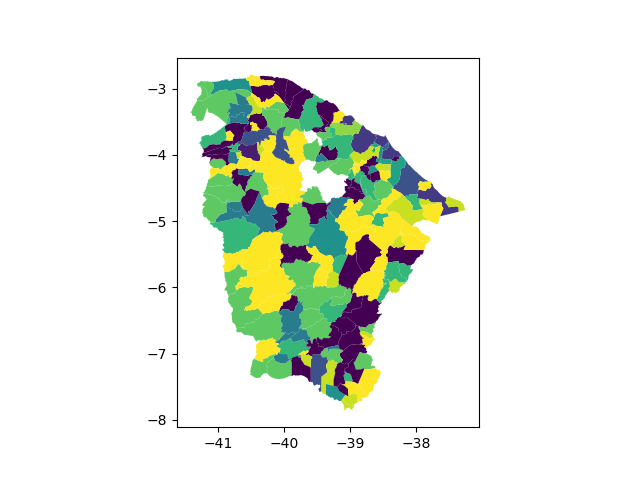
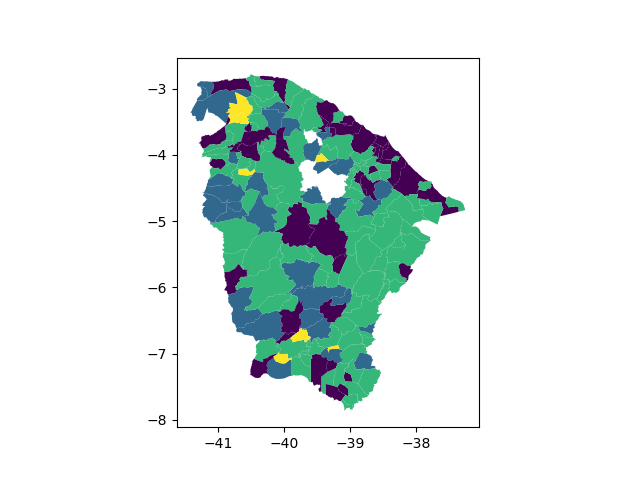
Create DBSCAN code

Changed region(s): [[0.2812, 0.1562, 0.75, 0.875]]

diff --git a/hierarchical_cluster/DBSCAN.py b/hierarchical_cluster/DBSCAN.py
@@ -1,0 +1,93 @@
+# Pacotes 
+from sklearn.cluster import DBSCAN
+from sklearn.model_selection import GridSearchCV
+from data_treatment import *
+from maps import *
+import pickle
+
+## Importandoo os dados 
+# Amostras de Treino e Teste  
+X_train, X_test = data().main()
+
+# Dataframe 
+dados = data().normalized(data().dataframe())
+
+# Estimando o modelo 
+params ={
+    'eps': [0.1,0.2,0.3,0.4,0.5,0.6,0.7,0.8,0.9],
+    'metric':['cityblock', 'cosine', 'euclidean', 'l1', 'l2', 'manhattan'],
+    'algorithm':['auto', 'ball_tree', 'kd_tree', 'brute'],
+}
+
+# Criando o modelo --> cross validation 
+model = DBSCAN()
+
+# classificando --> cross validation 
+classifier = GridSearchCV(model,params,cv=5,scoring='f1')
+classifier.fit(X_train) 
+
+# Melhor estimador 
+model = classifier.best_estimator_
+
+# Classificando os clusters por diferentes anos 
+# Estatisticas descritivas 
+estatisticas = dict()
+
+tabelas =[]
+
+# Filtrando as analises por ano 
+for ano in range(2013,2020):
+
+    # Criando o campo no dicionario por ano 
+    estatisticas[str(ano)] = dict()
+    
+    # Filtrando as tabelas por ano 
+    df = dados[dados['Ano']==ano]
+    ind = df[['Capacidade','Dependência_União','Dependência_Estado','IDH','Dependência_Estado_sus','Dependência_União_sus']]
+    ind,rotulate = data.rotulate(1,ind,"IDH")
+
+    # classificando os clusters 
+    model.fit_predict(ind)
+
+    # Salando as classificações no banco de dados  
+    df['Cluster'] = model.labels_
+    tabelas.append(df)
+    # Exportando os mapas 
+    maps(df,'Codigo',str(ano))
+
+    # Calculando estatisticas descritivas 
+    for classification in np.unique(df['Cluster']):
+
+       # Criando a chave por classificação 
+        estatisticas[str(ano)][str(classification)] = dict()
+        
+        # Filtrando por nivel de cluster 
+        local = df[df['Cluster']==classification] 
+
+        # Contagem de municipios    
+        estatisticas[str(ano)][str(classification)]['Contagem'] = len(local)
+
+        # Municipios 
+        estatisticas[str(ano)][str(classification)]['Municipios'] =list(np.unique(local['Municipio']))
+
+        # Media dos indicadores 
+        for indicador in ['Capacidade','Dependência_Estado','Dependência_União']:
+
+            # Criando o dicionario para os indicadores 
+            estatisticas[str(ano)][str(classification)][str(indicador)]  = dict()
+
+            # Media do indicador
+            estatisticas[str(ano)][str(classification)][str(indicador)]['Media'] = np.mean(local[indicador])
+
+            # Desvio Padrão 
+            estatisticas[str(ano)][str(classification)][str(indicador)]['Desvio Padrão'] = np.std(local[indicador])
+
+            # quartis 
+            estatisticas[str(ano)][str(classification)][str(indicador)]['Quartis'] = [np.quantile(local[indicador], q=0.25),np.quantile(local[indicador], q=0.5),np.quantile(local[indicador], q=0.75)]    
+
+            # Maximo 
+            estatisticas[str(ano)][str(classification)][str(indicador)]['Maximo'] = max(local[indicador])
+
+            # Minimo 
+            estatisticas[str(ano)][str(classification)][str(indicador)]['Minimo'] = min(local[indicador])
+

diff --git a/hierarchical_cluster/data_treatment.py b/hierarchical_cluster/data_treatment.py
@@ -5,7 +5,7 @@ import statistics as st
 from sklearn.preprocessing import normalize
 from sklearn.model_selection import train_test_split
 
-municipios = Indicador_Capacidade.select(Indicador_Capacidade.Municipio,Indicador_Capacidade.Estado,Indicador_Capacidade.Codigo,Indicador_Capacidade.Ano,Indicador_Capacidade.Capacidade,Indicador_Dependencia.Dependência_União,Indicador_Dependencia.Dependência_Estado,Indicador_Dependencia_Sus.Dependência_União_sus,Indicador_Dependencia_Sus.Dependência_Estado_sus,Populacao.populacao_estimada,Classificação_Municipios.IDH,Classificação_Municipios.Região,Classificação_Municipios.Porte,Classificação_Municipios.Macroregião,ProdutoInternoBrutoCe.produto_interno_bruto,ProdutoInternoBrutoCe.semiárido).join(Indicador_Dependencia, on=((Indicador_Capacidade.Codigo ==Indicador_Dependencia.Codigo) & (Indicador_Capacidade.Ano == Indicador_Dependencia.Ano))).join(Indicador_Dependencia_Sus, on=((Indicador_Capacidade.Codigo ==Indicador_Dependencia_Sus.Codigo) & (Indicador_Capacidade.Ano == Indicador_Dependencia_Sus.Ano))).join(Populacao, on=((Indicador_Capacidade.Codigo == Populacao.Codigo) & (Indicador_Capacidade.Ano == Populacao.Ano))).join(Classificação_Municipios, on = (Indicador_Capacidade.Municipio == Classificação_Municipios.Municipio)).join(ProdutoInternoBrutoCe, on =((Indicador_Capacidade.Codigo == ProdutoInternoBrutoCe.codigo_municipio) & (Indicador_Capacidade.Ano == ProdutoInternoBrutoCe.ano)))#.where(Indicador_Capacidade.Ano == 2013)
+municipios = Indicador_Capacidade.select(Indicador_Capacidade.Municipio,Indicador_Capacidade.Estado,Indicador_Capacidade.Codigo,Indicador_Capacidade.Ano,Indicador_Capacidade.Capacidade,Indicador_Dependencia.Dependência_União,Indicador_Dependencia.Dependência_Estado,Indicador_Dependencia_Sus.Dependência_União_sus,Indicador_Dependencia_Sus.Dependência_Estado_sus,Populacao.populacao_estimada,Classificação_Municipios.IDH,Classificação_Municipios.Região,Classificação_Municipios.Porte,Classificação_Municipios.Macroregião).join(Indicador_Dependencia, on=((Indicador_Capacidade.Codigo ==Indicador_Dependencia.Codigo) & (Indicador_Capacidade.Ano == Indicador_Dependencia.Ano))).join(Indicador_Dependencia_Sus, on=((Indicador_Capacidade.Codigo ==Indicador_Dependencia_Sus.Codigo) & (Indicador_Capacidade.Ano == Indicador_Dependencia_Sus.Ano))).join(Populacao, on=((Indicador_Capacidade.Codigo == Populacao.Codigo) & (Indicador_Capacidade.Ano == Populacao.Ano))).join(Classificação_Municipios, on = (Indicador_Capacidade.Municipio == Classificação_Municipios.Municipio))#.where(Indicador_Capacidade.Ano == 2013)
 
 
 class data():

diff --git a/hierarchical_cluster/database.py b/hierarchical_cluster/database.py
@@ -76,7 +76,7 @@ class Indicador_Dependencia_Sus(BaseModel):
         table_name = "Indicadores_de_Dependência_SUS"
         
 # Produto Interno Bruto 
-class ProdutoInternoBrutoCe(BaseModel):
+'''class ProdutoInternoBrutoCe(BaseModel):
     amazônia__legal = TextField(column_name='Amazônia Legal', null=True)
     ano = BigIntegerField(column_name='Ano', null=True)
     codigo_municipio = CharField(column_name='Codigo_municipio', null=True)
@@ -88,4 +88,4 @@ class ProdutoInternoBrutoCe(BaseModel):
 
     class Meta:
         table_name = 'Produto_interno_bruto_ce'
-        primary_key = False
+        primary_key = False'''
